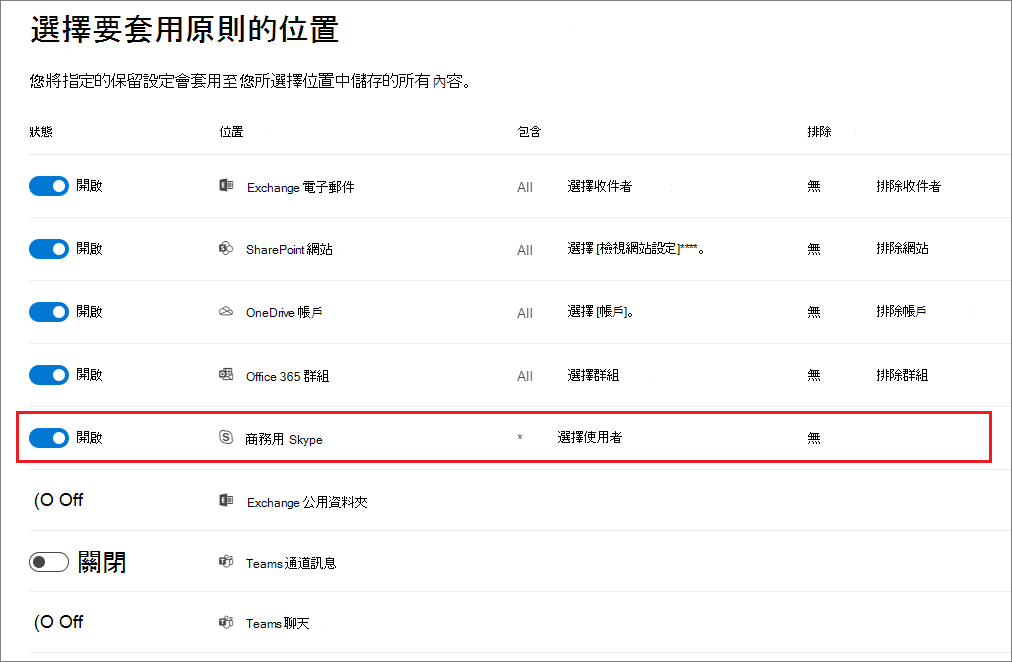
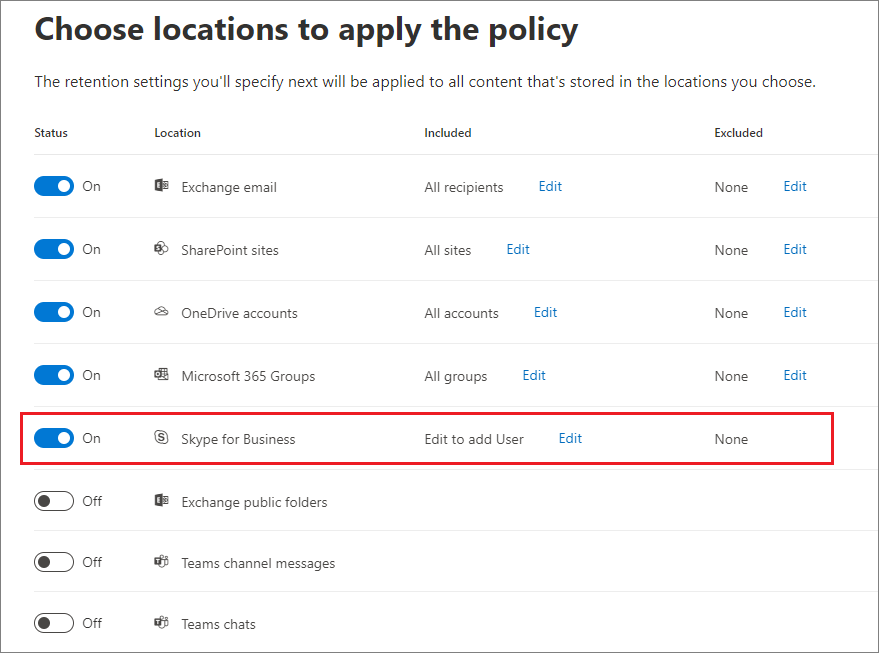
commit translated contents

diff --git a/microsoft-365/compliance/create-apply-retention-labels.md b/microsoft-365/compliance/create-apply-retention-labels.md
@@ -17,12 +17,12 @@ search.appverid:
 - MOE150
 - MET150
 description: 建立及發佈保留標籤的指示，以便您日後在應用程式中套用，用以保留所需的內容，並刪除您不需要的內容。
-ms.openlocfilehash: a9105b404dbeef0ff6ef247ce613f4257c3d3b2a
-ms.sourcegitcommit: 095b1f52f2e73e8d44195916984efeb0908c2ad8
+ms.openlocfilehash: e1504bf4dda8ee2e9f78f84c147bb4f3ebc22887
+ms.sourcegitcommit: 45c0afcf958069c5c1b31f9b6c762d8dd806e1e9
 ms.translationtype: HT
 ms.contentlocale: zh-TW
-ms.lasthandoff: 10/24/2020
-ms.locfileid: "48755552"
+ms.lasthandoff: 10/27/2020
+ms.locfileid: "48773994"
 ---
 # <a name="create-retention-labels-and-apply-them-in-apps"></a>建立保留標籤，並在應用程式中使用這些標籤
 
@@ -222,7 +222,7 @@ For SharePoint, but not OneDrive, you can create a view of the library that cont
 
 When you publish retention labels to Microsoft 365 groups ([formerly Office 365 groups](https://techcommunity.microsoft.com/t5/microsoft-365-blog/office-365-groups-will-become-microsoft-365-groups/ba-p/1303601)), the retention labels appear in both the group site and group mailbox in Outlook on the web. The experience of applying a retention label to content is identical to that for email and documents.
 
-To retain content for a Microsoft 365 group, use the **Office 365 groups** location. Even though a Microsoft 365 group has an Exchange mailbox, a retention policy that includes the entire Exchange location won't include content in Microsoft 365 group mailboxes.
+To retain content for a Microsoft 365 group, use the **Microsoft 365 Groups** location. Even though a Microsoft 365 group has an Exchange mailbox, a retention policy that includes the entire Exchange location won't include content in Microsoft 365 group mailboxes.
 
 In addition, it's not possible to use the Exchange location to include or exclude a specific group mailbox. Although the Exchange location initially allows a group mailbox to be selected, when you try to save the retention policy, you receive an error that "RemoteGroupMailbox" is not a valid selection for the Exchange location.
   
